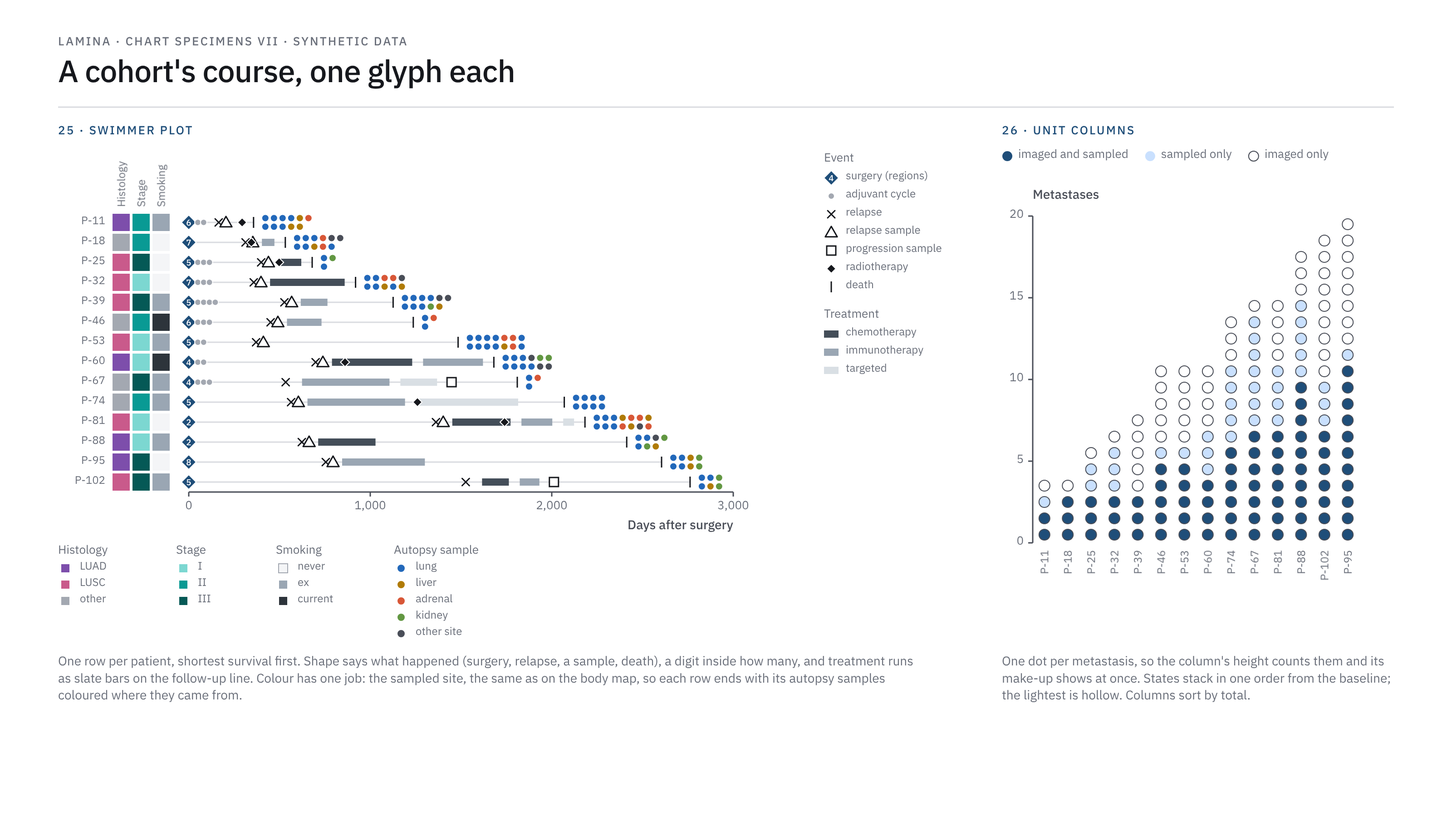
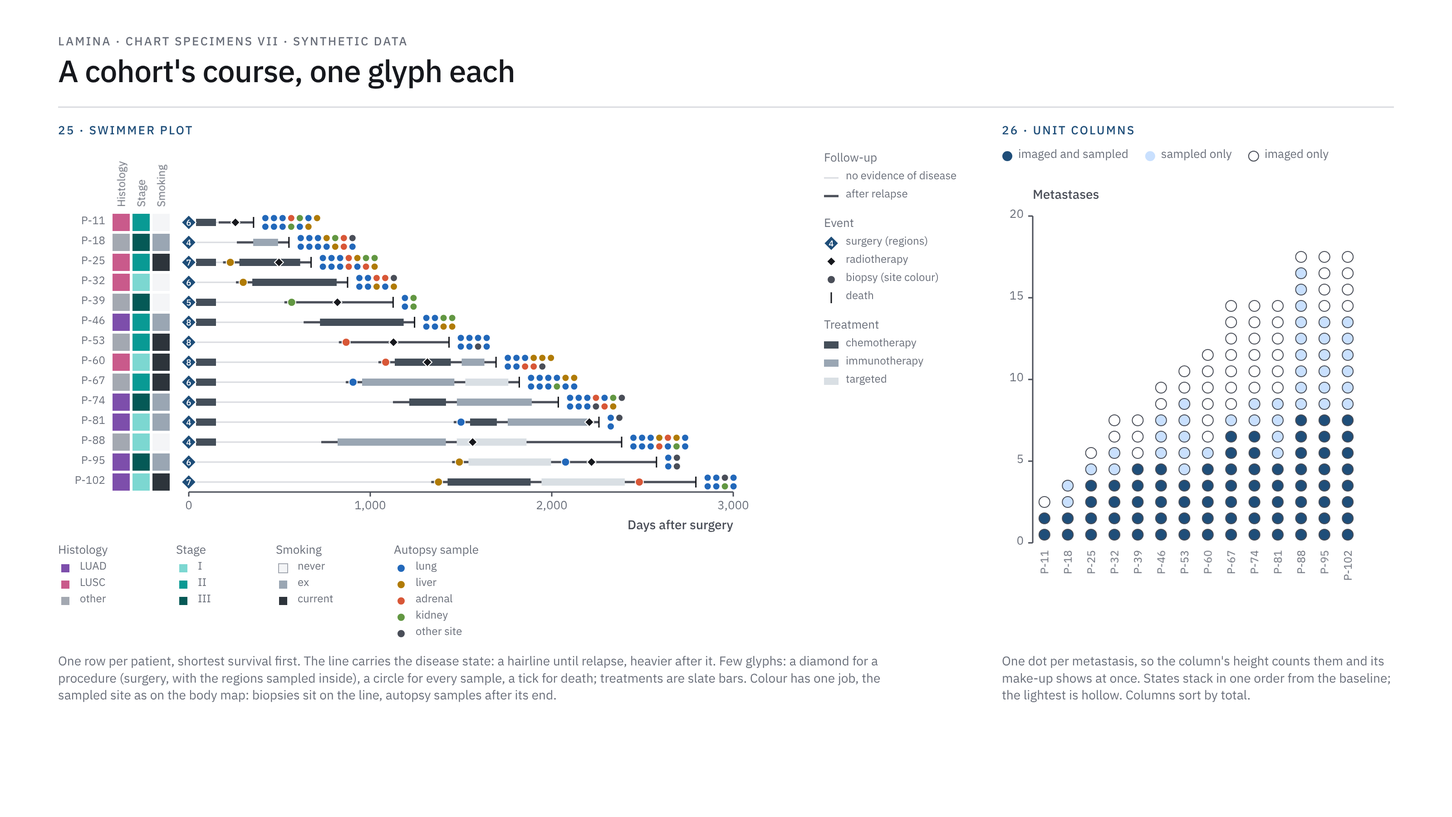
Fold the oncoprint and segment callout into forms 07 and 08; calm the swimmer
Review feedback on the anatomical glyph forms:

- Swimmer (25): the relapse cross and the sample triangle/square are gone.
  Relapse now changes the follow-up line (rule hairline -> 2.5px ink-2), as
  the track stack's lanes carry state; every sample is a circle in its site's
  colour (biopsies on the line, autopsy samples after its end); adjuvant
  cycles become a chemotherapy bar. The glyph grammar is narrowed to match:
  diamond = procedure, circle = sample, tick = death, bar = interval.
- Oncoprint: every part already existed (07 grouped heatmap, 19's wash grid
  and row groups, 18's row totals, 25's strips); the one new idea is a
  categorical cell. It becomes 07's "categorical cells" variant instead of
  form 27.
- Segment callout: kept as 08's "named part", drawn with the zoom device
  kare already uses (framed source + straight leaders, form 20) instead of
  a new flare shape. GA.flare is removed.

Kit: GA.glyph drops "cross" and "triangle"; GA.glyphKey gains line rows;
ch.swimmer gains `relapse`. Existing specimens render pixel-identical.

Claude-Session: https://claude.ai/code/session_019v6VzAwVA2W9ZjE1Mi6oz8

diff --git a/formats/abstract/kit/ga-charts.js b/formats/abstract/kit/ga-charts.js
@@ -496,11 +496,13 @@
       });
       ga.raw(s, { at, anim: "fade" });
     };
-    // ---- records (25-27) -------------------------------------------------------------
+    // ---- records (07, 25, 26) -------------------------------------------------------------
     // Swimmer plot (25): one row per patient on a shared time axis. rows: [{label,
-    // end, dead, strips: [colour], bars: [{t0, t1, color}], events: [{t, kind, ...glyph}],
-    // samples: [colour]}]. A 1.5px rule line runs from 0 to `end`; treatment bars
-    // (8px) sit on it; event glyphs over them; a 12px ink tick ends a row at death.
+    // end, dead, relapse, strips: [colour], bars: [{t0, t1, color}], events: [{t, kind,
+    // ...glyph}], samples: [colour]}]. The follow-up line runs from 0 to `end`: 1.5px
+    // rule, then 2.5px ink-2 from `relapse` on, so the disease state reads off the
+    // line. Treatment bars (8px) sit on it; event glyphs over them; a 12px ink tick
+    // ends a row at death.
     // `samples` are dots after the row's end, two rows deep, in the site's colour.
     // strips are annotation squares left of the plot at m.stripX (canvas x per strip),
     // named upward above them (m.stripLabels), with the patient's label left of them.
@@ -510,6 +512,7 @@
       rows.forEach((r, i) => {
         const cy = Y0 + (i + 0.5) * pitch;
         line += `<path d="M${sx(0)} ${cy}H${sx(r.end)}" stroke="var(--rule)" stroke-width="1.5"/>`;
+        if (r.relapse !== undefined) line += `<path d="M${sx(r.relapse)} ${cy}H${sx(r.end)}" stroke="var(--ink-2)" stroke-width="2.5"/>`;
         for (const b of r.bars || []) bars += `<rect x="${sx(b.t0)}" y="${cy - 4}" width="${Math.max(2, sx(b.t1) - sx(b.t0))}" height="8" fill="${b.color}"/>`;
         for (const e of r.events || []) ev += GA.glyph(e.kind, sx(e.t), cy, { size: gs, ...e });
         if (r.dead) ev += GA.glyph("tick", sx(r.end), cy, { size: 12 });
@@ -547,8 +550,9 @@
       });
       ga.raw(s, { at: t, anim: "rise", t: 0.8 });
     };
-    // Oncoprint (27): alterations per gene (rows) and patient (columns). Every cell is
-    // a wash square; an altered cell is filled in its class's colour, inset 1px.
+    // Categorical heatmap, the oncoprint (07): alterations per gene (rows) and
+    // patient (columns). Every cell is a wash square; an altered cell is filled in
+    // its class's colour, inset 1px.
     // cell: null | {cls, mark} — mark: true adds a small paper ring with a 1px ink
     // edge, the glyph for a second event in the same gene (a biallelic hit).
     // m.classColors[cls]; m.groups [{label, n}] split rows (10px gap), named upward
@@ -765,7 +769,8 @@
   // One mark for one kind of event or state, the same everywhere in a figure.
   // Shape says the kind, fill the class, a ring the role, and a digit or letter
   // inside a count or a role. GA.glyph returns SVG markup centred on (x, y).
-  //   kind: "circle" | "diamond" | "triangle" | "square" | "cross" | "tick"
+  //   kind: "circle" (a sample or measurement) | "diamond" (a procedure) |
+  //         "square" (a swatch in keys and strips) | "tick" (death, an end)
   //   o: size (px, the glyph's side; default 11), fill, ring (colour), ringW,
   //      text (a digit or letter inside), textColor
   const g1 = (v) => +v.toFixed(1);
@@ -776,21 +781,22 @@
     if (kind === "circle") m = `<circle cx="${g1(x)}" cy="${g1(y)}" r="${g1(h)}" fill="${fill}"${edge}/>`;
     else if (kind === "square") m = `<rect x="${g1(x - h)}" y="${g1(y - h)}" width="${s}" height="${s}" fill="${fill}"${edge}/>`;
     else if (kind === "diamond") { const k = h * 1.25; m = `<path d="M${g1(x)} ${g1(y - k)}L${g1(x + k)} ${g1(y)}L${g1(x)} ${g1(y + k)}L${g1(x - k)} ${g1(y)}Z" fill="${fill}"${edge}/>`; }
-    else if (kind === "triangle") { const k = h * 1.2; m = `<path d="M${g1(x)} ${g1(y - k)}L${g1(x + k)} ${g1(y + k * 0.75)}L${g1(x - k)} ${g1(y + k * 0.75)}Z" fill="${fill}"${edge} stroke-linejoin="round"/>`; }
-    else if (kind === "cross") m = `<path d="M${g1(x - h * 0.8)} ${g1(y - h * 0.8)}L${g1(x + h * 0.8)} ${g1(y + h * 0.8)}M${g1(x + h * 0.8)} ${g1(y - h * 0.8)}L${g1(x - h * 0.8)} ${g1(y + h * 0.8)}" stroke="${o.fill || "var(--ink)"}" stroke-width="1.5" stroke-linecap="round"/>`;
     else if (kind === "tick") m = `<path d="M${g1(x)} ${g1(y - h)}V${g1(y + h)}" stroke="${o.fill || "var(--ink)"}" stroke-width="1.5"/>`;
     if (o.text !== undefined) m += `<text x="${g1(x)}" y="${g1(y + s * 0.26)}" font-size="${g1(s * 0.72)}" font-weight="500" text-anchor="middle" style="fill:${o.textColor || "var(--paper)"}">${o.text}</text>`;
     return m;
   };
   // Glyph key: one row per glyph (drawn as it is used) and its name, at canvas
   // (x, y), `pitch` px apart, with an optional title above. rows: [{kind, label, ...glyph options}];
-  // a row with bar: colour draws a short bar instead (treatment intervals).
+  // a row with bar: colour draws a short bar instead (treatment intervals), and one
+  // with line: {color, width} a short line (a state of the follow-up line).
   GA.glyphKey = (ga, rows, o) => {
     const pitch = o.pitch || 20, at = o.at;
     let y = o.y, s = "";
     if (o.title) { ga.text(o.title, { x: o.x, y, role: "tick", color: "var(--muted)", at, anim: "fade" }); y += pitch; }
     for (const r of rows) {
-      s += r.bar ? `<rect x="${o.x}" y="${y + 4}" width="16" height="8" fill="${r.bar}"/>` : GA.glyph(r.kind, o.x + 8, y + 8, r);
+      s += r.bar ? `<rect x="${o.x}" y="${y + 4}" width="16" height="8" fill="${r.bar}"/>`
+        : r.line ? `<path d="M${o.x} ${y + 8}h16" stroke="${r.line.color}" stroke-width="${r.line.width}"/>`
+        : GA.glyph(r.kind, o.x + 8, y + 8, r);
       ga.text(r.label, { x: o.x + 24, y, role: "tick", size: 12, at, anim: "fade" });
       y += pitch;
     }
@@ -847,16 +853,6 @@
       s += `<path d="M${g1(hx(Math.PI - 0.5))} ${g1(hy(Math.PI - 0.5))}L${g1(ex)} ${g1(ey)}L${g1(hx(Math.PI + 0.5))} ${g1(hy(Math.PI + 0.5))}" fill="none" stroke="${rt.color || "var(--prussian)"}" stroke-width="2" stroke-linecap="round" stroke-linejoin="round"/>`;
     }
     return ga.raw(s, { at: o.at, anim: "fade", t: 0.6 });
-  };
-
-  // Segment callout (charts.md, *Labels*): a flare from one segment of a bar out to
-  // a block of text that names what the segment holds. The segment is outlined
-  // 1.5px ink; the flare, in the segment's wash, widens from the segment's height
-  // to the text's. a: the segment's box, b: the text block's box (canvas px).
-  GA.flare = (ga, a, b, o = {}) => {
-    const mx = (a.x1 + b.x0) / 2;
-    const d = `M${a.x1 + 3} ${a.y0}C${mx} ${a.y0} ${mx} ${b.y0} ${b.x0 - 6} ${b.y0}V${b.y1}C${mx} ${b.y1} ${mx} ${a.y1} ${a.x1 + 3} ${a.y1}Z`;
-    return ga.raw(`<path d="${d}" fill="${o.color || "var(--wash)"}"/><rect x="${a.x0}" y="${a.y0}" width="${a.x1 - a.x0}" height="${a.y1 - a.y0}" fill="none" stroke="var(--ink)" stroke-width="1.5"/>`, { at: o.at, anim: "fade", t: 0.6 });
   };
 
   // Deterministic pseudo-random numbers for schematic data (mulberry32)

diff --git a/core/specimen-chart-forms-vii.html b/core/specimen-chart-forms-vii.html
@@ -38,41 +38,42 @@ GA.build({ duration: 8, poster: 7.5, title: "Lamina chart specimens VII", desc: 
     for (let i = 0; i < n; i++) {
       const end = Math.round(300 + (2600 * (i + rnd() * 0.6)) / n), rel = Math.round(end * (0.25 + 0.4 * rnd()));
       const events = [{ t: 0, kind: "diamond", fill: "var(--prussian)", text: String(2 + Math.floor(rnd() * 7)), size: 13 }];
-      if (rnd() < 0.6) for (let c = 0; c < 2 + Math.floor(rnd() * 3); c++) events.push({ t: 50 + c * 32, kind: "circle", fill: "var(--context)", size: 7 });
-      events.push({ t: rel, kind: "cross", size: 10 });
-      if (rnd() < 0.7) events.push({ t: rel + 40, kind: "triangle", fill: "var(--paper)", ring: "var(--ink)", size: 11 });
       const bars = [];
+      if (rnd() < 0.6) bars.push({ t0: 40, t1: 150, color: tx.chemo }); // adjuvant chemotherapy
+      // a biopsy at relapse: a sample, so a circle in its site's colour, on the line
+      if (rnd() < 0.7) events.push({ t: rel + 40, kind: "circle", fill: site[siteKeys[Math.floor(rnd() * siteKeys.length)]], size: 9 });
       let t0 = rel + 90;
       for (const k of ["chemo", "immuno", "targeted"]) {
         if (rnd() < 0.55 && t0 < end - 120) { const t1 = Math.min(end - 60, t0 + 100 + rnd() * 500); bars.push({ t0, t1, color: tx[k] }); t0 = t1 + 60; }
       }
-      if (rnd() < 0.5 && t0 < end - 60) events.push({ t: t0 + 20, kind: "square", fill: "var(--paper)", ring: "var(--ink)", size: 10 });
+      if (rnd() < 0.5 && t0 < end - 60) events.push({ t: t0 + 20, kind: "circle", fill: site[siteKeys[Math.floor(rnd() * siteKeys.length)]], size: 9 });
       if (rnd() < 0.6) events.push({ t: Math.round(rel + (end - rel) * rnd()), kind: "diamond", fill: "var(--ink)", size: 8 });
       const ns = 3 + Math.floor(rnd() * 12);
       const samples = Array.from({ length: ns }, (_, k) => site[siteKeys[k < ns * 0.4 ? 0 : Math.floor(rnd() * siteKeys.length)]]);
-      rows.push({ label: `P-${String(11 + i * 7).padStart(2, "0")}`, end, dead: true, events, bars, samples, strips: [histo[Math.floor(rnd() * 3)], stage[Math.floor(rnd() * 3)], smoke[Math.floor(rnd() * 3)]] });
+      rows.push({ label: `P-${String(11 + i * 7).padStart(2, "0")}`, end, dead: true, relapse: rel, events, bars, samples, strips: [histo[Math.floor(rnd() * 3)], stage[Math.floor(rnd() * 3)], smoke[Math.floor(rnd() * 3)]] });
     }
     const X0 = x + 144, pitch = 22;
     const ch = GA.chart(ga, { x: X0, y: T + 96, w: 600, h: n * pitch, xd: [0, 3000], xTicks: [0, 1000, 2000, 3000], xFmt: (v) => v.toLocaleString("en-GB"), xTitle: "Days after surgery", axes: "x", at });
     ch.swimmer(rows, { stripX: [x + 60, x + 60 + pitch, x + 60 + 2 * pitch], stripLabels: ["Histology", "Stage", "Smoking"] });
     // keys: events and treatment right of the plot; strips and samples beneath
     const kx = X0 + 700; // keys
-    const ky = GA.glyphKey(ga, [
+    let ky = GA.glyphKey(ga, [
+      { line: { color: "var(--rule)", width: 1.5 }, label: "no evidence of disease" },
+      { line: { color: "var(--ink-2)", width: 2.5 }, label: "after relapse" },
+    ], { x: kx, y: T + 30, title: "Follow-up", at });
+    ky = GA.glyphKey(ga, [
       { kind: "diamond", fill: "var(--prussian)", text: "4", size: 13, label: "surgery (regions)" },
-      { kind: "circle", fill: "var(--context)", size: 7, label: "adjuvant cycle" },
-      { kind: "cross", size: 10, label: "relapse" },
-      { kind: "triangle", fill: "var(--paper)", ring: "var(--ink)", size: 11, label: "relapse sample" },
-      { kind: "square", fill: "var(--paper)", ring: "var(--ink)", size: 10, label: "progression sample" },
       { kind: "diamond", fill: "var(--ink)", size: 8, label: "radiotherapy" },
+      { kind: "circle", fill: "var(--ink-2)", size: 9, label: "biopsy (site colour)" },
       { kind: "tick", size: 12, label: "death" },
-    ], { x: kx, y: T + 30, title: "Event", at });
+    ], { x: kx, y: ky + 12, title: "Event", at });
     GA.glyphKey(ga, [{ bar: tx.chemo, label: "chemotherapy" }, { bar: tx.immuno, label: "immunotherapy" }, { bar: tx.targeted, label: "targeted" }], { x: kx, y: ky + 12, title: "Treatment", at });
     const key = (title, labels, cols, xx) => GA.glyphKey(ga, labels.map((l, i) => ({ kind: "square", fill: cols[i], size: 10, ring: cols[i] === tok("wash") ? "var(--context)" : undefined, ringW: 1, label: l })), { x: xx, y: ch.y1 + 58, pitch: 18, title, at });
     key("Histology", ["LUAD", "LUSC", "other"], histo, x);
     key("Stage", ["I", "II", "III"], stage, x + 130);
     key("Smoking", ["never", "ex", "current"], smoke, x + 240);
     GA.glyphKey(ga, siteKeys.map((k) => ({ kind: "circle", fill: site[k], size: 9, label: k === "other" ? "other site" : k })), { x: x + 370, y: ch.y1 + 58, pitch: 18, title: "Autopsy sample", at });
-    note(x, 960, "One row per patient, shortest survival first. Shape says what happened (surgery, relapse, a sample, death), a digit inside how many, and treatment runs as slate bars on the follow-up line. Colour has one job: the sampled site, the same as on the body map, so each row ends with its autopsy samples coloured where they came from.");
+    note(x, 960, "One row per patient, shortest survival first. The line carries the disease state: a hairline until relapse, heavier after it. Few glyphs: a diamond for a procedure (surgery, with the regions sampled inside), a circle for every sample, a tick for death; treatments are slate bars. Colour has one job, the sampled site as on the body map: biopsies sit on the line, autopsy samples after its end.");
   }
 
   // 26 unit columns: metastases per patient, by what was done with each

diff --git a/core/specimen-chart-forms-viii.html b/core/specimen-chart-forms-viii.html
@@ -12,9 +12,10 @@
 </head>
 <body>
 <script>
-// Specimen sheet for core/charts.md: the oncoprint (27) and the segment callout
-// (*Labels*). All data here are synthetic.
-GA.build({ duration: 8, poster: 7.5, title: "Lamina chart specimens VIII", desc: "Alterations per gene and patient with an in-cell glyph for a second event, and a segment callout naming what one part of a bar holds, on synthetic data." }, (ga) => {
+// Specimen sheet for core/charts.md: two variants of existing forms, the
+// categorical heatmap or oncoprint (07) and a composition with a named part (08).
+// All data here are synthetic.
+GA.build({ duration: 8, poster: 7.5, title: "Lamina chart specimens VIII", desc: "Variants of the heatmap and the composition bar: categorical cells with an in-cell glyph for a second event, and one part of a bar named by a zoom, on synthetic data." }, (ga) => {
   const tok = (n) => getComputedStyle(document.documentElement).getPropertyValue(`--${n}`).trim();
   const rnd = GA.rng(5);
   const at = 0.3, T = 138;
@@ -30,7 +31,7 @@ GA.build({ duration: 8, poster: 7.5, title: "Lamina chart specimens VIII", desc:
   // 27 oncoprint
   {
     const x = ga.M;
-    ga.text("27 · ONCOPRINT", { x, y: T, role: "step", at: 0.2 });
+    ga.text("07 · HEATMAP, CATEGORICAL (ONCOPRINT)", { x, y: T, role: "step", at: 0.2 });
     const genes = { Amp: ["MYC", "CCND1", "EGFR", "MDM2"], LOH: ["CDKN2A", "ATM", "SMAD4", "KEAP1", "STK11", "PTEN"], Mut: ["TP53", "KRAS", "EGFR", "KEAP1", "SMARCA4", "ARID1A", "NF1"] };
     const rate = { Amp: 0.2, LOH: 0.45, Mut: 0.3 }, np = 14;
     const rows = [], labels = [];
@@ -56,13 +57,13 @@ GA.build({ duration: 8, poster: 7.5, title: "Lamina chart specimens VIII", desc:
     ], { x: kx, y: T + 64, title: "Alteration", at });
     GA.glyphKey(ga, [{ kind: "circle", size: 8, fill: "var(--paper)", ring: "var(--ink)", ringW: 1, label: "second hit (biallelic)" }], { x: kx, y: ky + 12, title: "Mark", at });
     GA.glyphKey(ga, [{ kind: "square", fill: histo[0], label: "LUAD" }, { kind: "square", fill: histo[1], label: "LUSC" }, { kind: "square", fill: histo[2], label: "other" }], { x: kx, y: ky + 80, title: "Histology", at });
-    note(x, 700, "Genes by patients. The cell's fill says when the alteration arose (the clone tree's classes); a small ring inside marks a second hit in the same gene. Row groups part with a gap; each row's classes stack into a bar at its right; annotation strips run underneath.");
+    note(x, 700, "The heatmap with a class in each cell instead of a value. Every cell is a wash square, so an empty one reads as tested; fill says when the alteration arose (the clone tree's classes), a small ring inside a second hit in the same gene. Groups, row totals and strips work as in forms 18 and 19.");
   }
 
   // segment callout: which drivers sit in one part of a bar
   {
     const x = ga.M + 820, CW = 1600 - ga.M - x;
-    ga.text("SEGMENT CALLOUT", { x, y: T, role: "step", at: 0.2 });
+    ga.text("08 · COMPOSITION, A NAMED PART", { x, y: T, role: "step", at: 0.2 });
     const shares = { Amp: [42, 19, 18, 21], LOH: [32, 17, 14, 37], Mut: [44, 6, 16, 34] }, n = { Amp: 59, LOH: 453, Mut: 196 };
     const ch = GA.chart(ga, { x: x + 44, y: T + 80, w: 190, h: 330, xd: [0, 3], yd: [0, 100], yTicks: [0, 25, 50, 75, 100], yTitle: "Share of alterations (%)", axes: "y", at });
     let s = "";
@@ -81,8 +82,10 @@ GA.build({ duration: 8, poster: 7.5, title: "Lamina chart specimens VIII", desc:
     let yy = tb.y0 + 8;
     ga.text("Actionable drivers", { x: tb.x0, y: tb.y0 - 16, role: "tick", color: "var(--muted)", at: at + 1, anim: "fade" });
     for (const l of lines) { ga.text(l, { x: tb.x0, y: yy, role: "tick", size: 13, color: "var(--ink)", at: at + 1, anim: "fade" }); yy += 20; }
-    GA.flare(ga, seg, { x0: tb.x0, y0: tb.y0 + 4, y1: yy + 4 }, { color: tok("slate-100"), at: at + 0.9 });
-    note(x, CW, "A flare opens from one part of a bar to the list of what it holds. The part is outlined in ink, the flare is a pale wash that widens to the text's height, and the list names each item in the paper's terms.");
+    // the part is framed, and two straight leaders zoom it into its list (as in form 20)
+    ga.raw(`<rect x="${seg.x0}" y="${seg.y0}" width="${seg.x1 - seg.x0}" height="${seg.y1 - seg.y0}" fill="none" stroke="var(--ink)" stroke-width="1.5"/>`, { at: at + 0.9, anim: "fade" });
+    GA.leaders(ga, seg, { x0: tb.x0 - 10, x1: tb.x0 + 200, y0: tb.y0 + 6, y1: yy + 2 }, { at: at + 0.9 });
+    note(x, CW, "To name what one part of a bar holds, zoom into it the way the atlas does: frame the part in ink and run two straight leaders from its corners to a short list beside the bar, which names each item in the paper's terms.");
   }
 });
 </script>

diff --git a/core/charts.md b/core/charts.md
@@ -18,8 +18,8 @@ Reference sheets, synthetic data:
 - `out/specimen-chart-forms-vi.png`: forms 22–24, findings on the body
   (`specimen-chart-forms-vi.html`).
 - `out/specimen-chart-forms-vii.png`: forms 25 and 26 (`specimen-chart-forms-vii.html`).
-- `out/specimen-chart-forms-viii.png`: form 27 and the segment callout
-  (`specimen-chart-forms-viii.html`).
+- `out/specimen-chart-forms-viii.png`: the categorical heatmap (07) and a
+  composition with a named part (08) (`specimen-chart-forms-viii.html`).
 
 Sizes below are px on the abstract canvas. `../formats/publication/README.md` gives
 the print equivalents.
@@ -46,6 +46,7 @@ Start from the data's job.
 | A regression's predictions against the measured values | Predicted vs observed (15) |
 | Many tests, effect against significance | Volcano (06) |
 | Matrix of values (tissue × drug, gene × cell) | Heatmap (07), grouped when columns carry an annotation |
+| Matrix of classes (alterations per gene and patient, and when each arose) | Heatmap with categorical cells, the oncoprint (07) |
 | Counts in a matrix (patients per gene × tumour type) | Count matrix (18) |
 | Two measures per cell of a matrix (how many have it, how much) | Dot matrix (19) |
 | Observations in a learned space (cells, patients, codes) | Labelled embedding (20) |
@@ -55,7 +56,6 @@ Start from the data's job.
 | Where a tumour's clones spread, and which clones seeded | Route map (23) beside its clone tree (24) |
 | A cohort's clinical course, patient by patient | Swimmer plot (25) |
 | A few items per unit, each with a state (metastases per patient) | Unit columns (26) |
-| Alterations per gene and patient, with when each arose | Oncoprint (27) |
 | Parts of a whole, a few units | 100 % stacked bars (08) |
 | Parts of a whole, many samples | Stacked columns grouped by dominant part (14) |
 | One share per location in space | Proportion dials in small multiples (`illustration.md`) |
@@ -108,11 +108,6 @@ Start from the data's job.
 - Label text uses the series' **text step** (`--harm-text`, `--cat-n-text`) or
   `muted`. Journal figures set labels in ink with a colour swatch
   (`../formats/publication/README.md`).
-- **Segment callout.** To name what one part of a bar holds (the actionable
-  drivers among the truncal mutations), outline the part 1.5 px `ink` and open a
-  flare from it to a short list set beside the bar: a pale wash (slate 100 or the
-  part's 100 step) that widens from the part's height to the list's. The list's
-  title is `muted`; its items are `ink`, gene names italic.
 
 **Glyphs**
 
@@ -120,9 +115,14 @@ Records of events and states (a patient's course, a clone's role, a second hit i
 gene) are drawn as glyphs, one mark per kind, so a reader learns them once and reads
 them in every panel.
 
-- **Shape says the kind**: a diamond for a procedure (surgery), a circle for a
-  measurement or a sample from a known site, a triangle and a square for samples taken
-  at relapse and at progression, × for relapse, a short vertical tick for death.
+- **Shape says the kind, and there are few**: a diamond for a procedure (surgery,
+  radiotherapy), a circle for a sample or a measurement, a short vertical tick for
+  death, a bar for an interval (a treatment). Samples of different kinds (at
+  relapse, at progression) share the circle; their place on the timeline tells them
+  apart.
+- **A change of state changes the line, not a glyph**: the follow-up line is a
+  hairline until relapse and heavier after it, as the track stack's lanes carry
+  state (form 17).
 - **Fill says the class** (where a clone lives, which site a sample came from), from
   one palette per job (`color.md`).
 - **A ring says the role**: 2.5 px `ink` for the primary role (seeds from the
@@ -135,7 +135,7 @@ them in every panel.
   of the cell's class (a biallelic hit in an oncoprint).
 - A glyph means one thing across the figure. The key draws each glyph as it is used,
   grouped under a title per kind (Event, Treatment, Sample).
-- Sizes: 11 px glyphs (7–8 px for minor, repeated events such as treatment cycles),
+- Sizes: 11 px glyphs (8–9 px for minor events such as radiotherapy or a biopsy),
   13 px when they carry a digit.
 
 **Colour** (see `color.md`)
@@ -227,6 +227,20 @@ them in every panel.
 - The key sits beneath the grid, with labelled ends and midpoint. When the scale is
   capped (`color.md`, *Magnitude*), the key's end reads "> 2". Put numbers in the
   cells when the matrix is 5 × 5 or smaller.
+- **Categorical cells (the oncoprint).** When each cell holds a class rather than a
+  value (alterations per gene and patient, and when each arose):
+  - Every cell is a `wash` square, as in form 19, so an unaltered cell reads as
+    tested and wild type; an untested one has no square.
+  - An altered cell is filled by its class. For clonal timing, use the clone tree's
+    location classes (24): truncal `context`, shared subclonal `blue-300`,
+    primary-unique `blue-700`, metastasis-unique `teal-500`.
+  - A second event in the same gene (a biallelic hit) is a small ring inside the
+    cell: paper fill, 1 px `ink` edge (*Glyphs*).
+  - Row groups (amplification, LOH, mutation) part with a 10 px gap and are named
+    as in form 19; gene names are italic and sort by frequency within a group.
+  - Each row's classes stack into a bar at its right on a count axis, as form 18's
+    totals do; annotation strips (histology, treatment) run under the grid, named
+    at the right, as in form 25.
 
 ### 08 · Composition (100 % stacked)
 
@@ -240,6 +254,11 @@ them in every panel.
   tissue with the same colours.
 - When the question is whether a part changed, add a points-and-mean panel per part
   (form 10) beside the stack.
+- **A named part.** To say what one part of a bar holds (the actionable drivers among
+  the truncal mutations), zoom into it as form 20's atlas does: frame the part 1.5 px
+  `ink` and run two straight 1 px `ink-2` leaders from its corners to a short list
+  beside the bar. The list's title is `muted`; its items are `ink`, gene names
+  italic.
 
 ### 09 · Beeswarm + median
 
@@ -533,21 +552,21 @@ metastases.
 For a cohort's clinical course: one row per patient on a shared time axis. Form 17
 is one patient's record in depth; the swimmer plot is every patient's in outline.
 
-- Rows sort by survival (or follow-up), shortest first. A 1.5 px `rule` line runs
-  from time 0 to the row's end; a death ends it with a tick.
-- Events are glyphs on the line (*Glyphs*): surgery a `prussian` diamond with the
-  number of regions sampled inside; adjuvant cycles small `context` circles;
-  relapse ×; samples hollow triangles and squares; radiotherapy a small `ink`
-  diamond.
-- Treatment intervals are 8 px bars on the line, square-cornered.
-- Samples taken at the end (autopsy) sit after the row's end as dots two rows deep,
-  each **coloured by its site as on the body map** (22). Colour then has one job, the
-  site, so treatment bars take slate steps (700, 400, 200) and annotation strips use
-  hues that no site in the figure uses.
+- Rows sort by survival (or follow-up), shortest first. The follow-up line runs from
+  time 0 to the row's end and **carries the disease state**: 1.5 px `rule` until
+  relapse, 2.5 px `ink-2` after it. A death ends the row with a tick.
+- Few glyphs (*Glyphs*): surgery a `prussian` diamond with the number of regions
+  sampled inside; radiotherapy a small `ink` diamond; every sample a circle.
+- Treatments, adjuvant ones included, are 8 px bars on the line, square-cornered.
+- **Every sample is a circle in its site's colour, as on the body map** (22):
+  biopsies sit on the line when they were taken; samples taken at the end (autopsy)
+  sit after the row's end, two rows deep. Colour then has one job, the site, so
+  treatment bars take slate steps (700, 400, 200) and annotation strips use hues that
+  no site in the figure uses.
 - Annotation strips (histology, stage, smoking) are squares left of the plot, one
   column each, named upward above it; the patient's label sits left of them.
-- Keys: events and treatments beside the plot as glyph keys; strips and sample sites
-  beneath it.
+- Keys beside the plot: the two line states, the events, the treatments. Strips and
+  sample sites beneath it.
 
 ### 26 · Unit columns
 
@@ -561,23 +580,3 @@ and sampled or not.
 - Columns sort by total; unit names hang below the axis, reading upward.
 - A key of the states sits above the plot, in stack order.
 - Past about 30 items per column, use stacked bars (08) instead.
-
-### 27 · Oncoprint
-
-For alterations per gene (rows) and patient (columns), and when each arose.
-
-- Every cell is a `wash` square with a 2 px paper gap, so an unaltered cell reads as
-  tested and wild type.
-- An altered cell is filled by its **class**. For clonal timing, use the clone
-  tree's location classes (24): truncal `context`, shared subclonal `blue-300`,
-  primary-unique `blue-700`, metastasis-unique `teal-500`.
-- A **second event** in the same gene (a biallelic hit, loss of the other allele) is
-  a small ring inside the cell: paper fill, 1 px `ink` edge (*Glyphs*).
-- Row groups (amplification, LOH, mutation) part with a 10 px gap and are named
-  upward at the left beside a `rule` bar, as in form 19. Gene names are italic,
-  right-aligned left of the grid, sorted within a group by frequency.
-- Right of each row, its classes stack into a bar on a shared count axis (ticks at 0
-  and the number of patients, above the grid).
-- Annotation strips (histology, treatment) run under the grid in their own palettes
-  and are named at the right; patient names hang below them, reading upward.
-

diff --git a/formats/abstract/README.md b/formats/abstract/README.md
@@ -160,14 +160,14 @@ render. `axes: "x"`, `"y"` or `""` keeps only those axes.
 | `counts`, `upText` | Count matrix with totals and a 100 % bar per row (18); column names reading upward |
 | `dotMatrix`, `sizeKey` | Dot matrix, area for share and colour for magnitude, and its size key (19) |
 | `cloud`, `stub`, `label` (`halo`) | Embedding points, the axis stub, names on the cloud (20) |
-| `region`, `frame`, `callouts`, `GA.leaders` | An atlas's zoom: source frame, inset frame, named points in a column, corner-to-corner leaders (20) |
+| `region`, `frame`, `callouts`, `GA.leaders` | An atlas's zoom: source frame, inset frame, named points in a column, corner-to-corner leaders (20); a named part of a bar (08) |
 | `GA.radial` → `sectors`, `bars`, `ring`, `key` | Radial track stack (21) |
-| `GA.glyph`, `GA.glyphKey` | Glyphs: shape for kind, fill for class, ring for role, a digit or letter inside (*Glyphs*) |
+| `GA.glyph`, `GA.glyphKey` | Glyphs: shape for kind, fill for class, ring for role, a digit or letter inside; keys with glyph, bar and line rows (*Glyphs*) |
 | `GA.bio` → `body`, `bubbles`, `dial` | Body map with site bubbles or region dials (22) |
 | `GA.routes`, `GA.cloneTree` | Route map (23) and clone tree (24) |
-| `swimmer` | Swimmer plot (25) |
+| `swimmer` | Swimmer plot, the follow-up line carrying relapse (25) |
 | `units` | Unit columns (26) |
-| `oncoprint`, `GA.flare` | Oncoprint (27); segment callout (*Labels*) |
+| `oncoprint` | Heatmap with categorical cells, the oncoprint (07) |
 
 `../../core/specimen-charts.html` and `../../core/specimen-chart-forms.html`,
 `-iii.html` through `-viii.html` use every mark.

diff --git a/core/README.md b/core/README.md
@@ -7,7 +7,7 @@ What every format shares: the principles, the voice, and five elements. The form
 |---|---|---|
 | Colour | [`color.md`](color.md) | Palettes grouped by meaning, and how they were validated |
 | Typography | [`typography.md`](typography.md) | One family (IBM Plex), type roles, numbers and units |
-| Charts | [`charts.md`](charts.md) | Chart grammar, glyphs and twenty-seven forms |
+| Charts | [`charts.md`](charts.md) | Chart grammar, glyphs and twenty-six forms |
 | Icons | [`icons.md`](icons.md) | Health Icons, custom glyphs, when an icon takes colour |
 | Illustration | [`illustration.md`](illustration.md) | Cells, tissue, body maps, model systems, zooms, arrows and method boxes |
 | Tokens | `tokens.mjs` → `tokens.css`, `tokens.json` | Every colour and font value. Edit the `.mjs`, run `node core/tokens.mjs` |

diff --git a/README.md b/README.md
@@ -93,8 +93,8 @@ The system draws on these works. Thanks to their authors.
     *Nature Biotechnology* 2020, Fig. 2a; the atlas: [A multimodal and temporal
     foundation model for virtual patient representations at healthcare system
     scale](https://arxiv.org/abs/2604.18570), arXiv 2026, Fig. 2a–c
-- The glyph grammar and chart forms 22–27 (body map, route map, clone tree,
-  swimmer plot, unit columns, oncoprint) and the segment callout: Hessey, Bunkum,
+- The glyph grammar, chart forms 22–26 (body map, route map, clone tree, swimmer
+  plot, unit columns), the categorical heatmap (07) and the named part (08): Hessey, Bunkum,
   Huebner et al., [Evolutionary characterization of lung cancer
   metastasis](https://doi.org/10.1038/s41586-026-10428-4), *Nature* 2026, Figs 1–5
 
